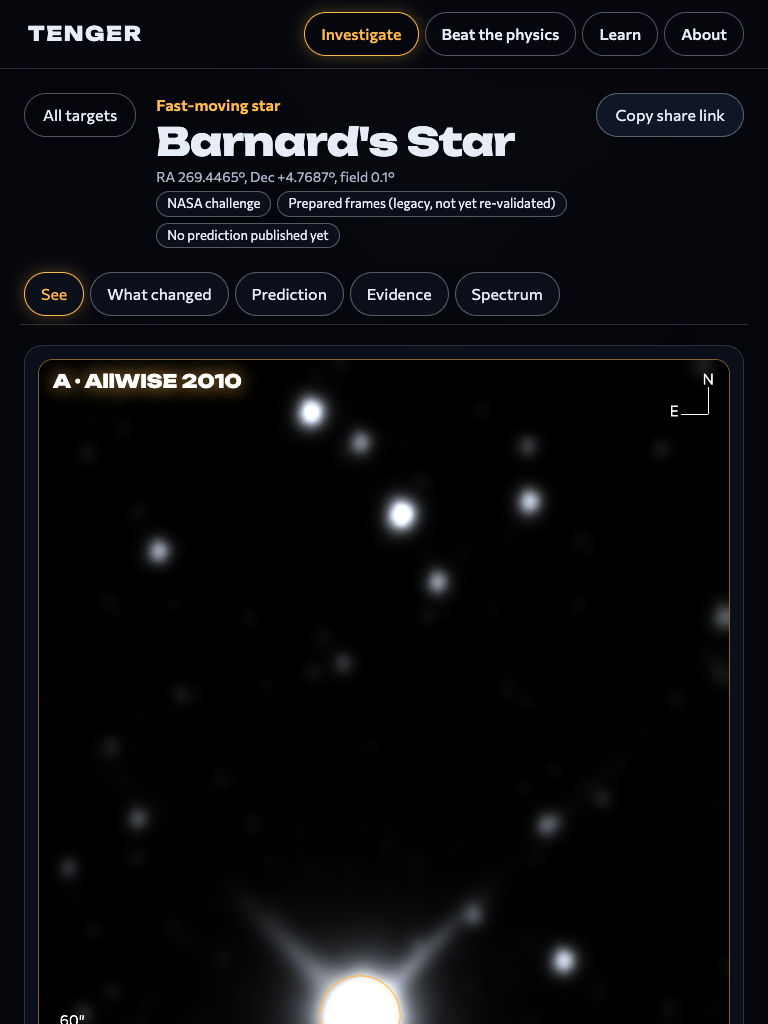
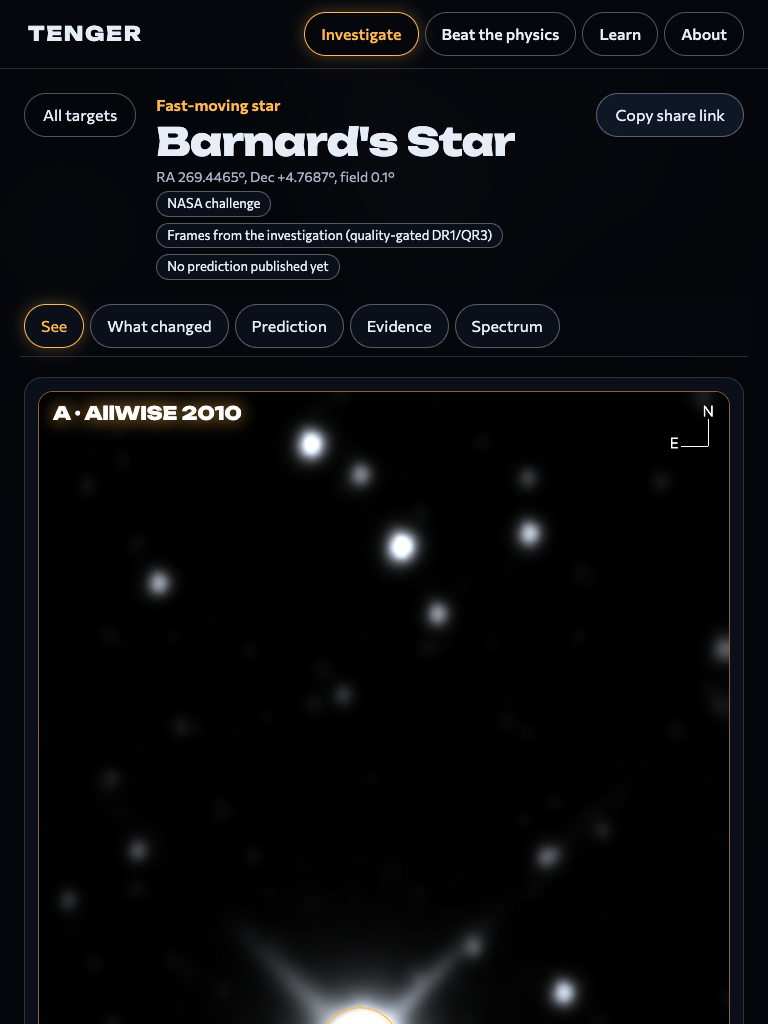
fix(web): real Barnard data, paths with spaces, new data-key text
- tests: fileURLToPath instead of URL.pathname, so the suite runs from a
  checkout path with spaces (Session A's folder).
- i18n: re-copy static/data/strings.en.json (71 keys).
- Real index and Barnard investigation: frames labelled as rebuilt from the
  investigation (legacy: null), unvalidated challenge targets stay viewable
  as "legacy frames only", measurements grouped, limitations listed once.
- Screenshots regenerated.

diff --git a/static/js/i18n.js b/static/js/i18n.js
@@ -69,6 +69,9 @@ const TEXT = {
     'data.unavailableLong': 'Prepared images and checks for this target are not published yet.',
     'data.unavailableBecause': 'Not available yet: {reason}.',
     'data.legacy': 'Prepared frames (legacy, not yet re-validated)',
+    'data.rebuilt': 'Frames from the investigation (quality-gated DR1/QR3)',
+    'data.live': 'Frames from the live archive service',
+    'data.legacyOnly': 'Legacy frames only; no validated product yet',
     kindfaststar: 'Fast-moving star',
     kindstar: 'Star',
     kindbrowndwarf: 'Brown dwarf',
@@ -282,6 +285,7 @@ const TEXT = {
     'statusNote.difference': 'B minus A, from the same grid. Amber: brighter in B. Blue: fainter in B.',
     'statusNote.context': 'Cross-mission context, not a like-for-like brightness comparison.',
     'statusNote.legacy': 'Prepared frames from the earlier SPHEREx Blink build (legacy, not yet re-validated).',
+    'statusNote.rebuilt': 'Frames rebuilt from the investigation’s own quality-gated exposures.',
     'release.spherex_qr2': 'SPHEREx QR2',
     'release.spherex_qr3': 'SPHEREx QR3',
     'release.spherex_dr1': 'SPHEREx DR1',
@@ -302,6 +306,8 @@ const TEXT = {
     'changed.curveTitle': 'Brightness over time, quick look',
     'changed.value': '{value} ± {sigma} {unit}',
     'changed.noValue': 'No value: {status}',
+    'changed.missingCount': 'Not measured: {count} (show why)',
+    'changed.inputs': 'Epochs {inputs}',
     measure: 'Estimate motion',
     measuring: 'Tracking the source between dates.',
     measured: 'Browser estimate',
@@ -369,6 +375,7 @@ const TEXT = {
     'evidence.waiting': 'The evidence file for this target is not published yet.',
     'evidence.legacyTitle': 'Frames in the viewer',
     'evidence.legacyLead': 'These prepared frames come from the earlier SPHEREx Blink build. They are real SPHEREx exposures but have not been re-validated (wavelength map, quality flags, variance).',
+    'evidence.rebuiltLead': 'These frames were rebuilt from the investigation’s own usable exposures (DR1/QR3 products, flagged pixels masked). The pictures are still processed: reprojected, median-combined per date and shown in false colour. Measurements use the native data, not these pictures.',
     'evidence.custom': 'Frames for a custom position come from the live archive service and are not validated.',
     'evidence.frames': 'Exposures shown',
     'evidence.framesValue': '{shown} (from {total} prepared, {available} listed in the archive when prepared)',
@@ -659,16 +666,19 @@ const TEXT = {
     'explain.see-only': 'This target is shown for looking only. It is not part of the prediction tests.',
     'explain.training-only': 'Only the training visits are opened. The newest visit stays closed until the prediction is frozen.',
     'limit.aperture-whole-pixels': 'Brightness is summed over whole pixels inside a circle.',
+    'limit.blended-binary': 'This is a close pair of stars; at SPHEREx resolution both are measured together.',
     'limit.catalogue-assisted-identification': 'The star was found using its catalogue position and motion.',
     'limit.control-not-passed': 'The field-star check did not pass, so the uncertainty may be underestimated.',
     'limit.detection-not-validated': 'No detection of this body has been validated in these pictures.',
     'limit.ephemeris-guided': 'Cutouts follow the JPL Horizons ephemeris (catalogue-assisted).',
+    'limit.few-visits-parallax': 'Only a few visits: the parallax fit is sensitive to small errors that differ from visit to visit.',
     'limit.gaussian-psf-model': 'Positions come from a simple bell-shaped star model, not the full SPHEREx PSF.',
     'limit.no-parallax-baseline': 'Straight-line fit that ignores parallax: a simple comparison, not the best model.',
     'limit.parallax-from-catalogue': 'The yearly parallax wobble uses the Gaia distance (catalogue-assisted).',
     'limit.parallax-not-modelled': 'The yearly parallax wobble is not modelled.',
     'limit.saturated-core-wing-fit': 'The star\'s centre is saturated; its position comes from the outer glow only.',
     'limit.training-visits-only': 'Only training visits are shown.',
+    'limit.visit-systematics': 'The free parallax fit disagrees with Gaia, a sign of visit-to-visit errors; uncertainties may be too small.',
     'limit.wcs-wave-approximate': 'Wavelengths come from the approximate lookup table in each file (about 1 nm).',
     'measure.annulus-too-small': 'Too few clean sky pixels around the star.',
     'measure.aperture-empty': 'No pixels inside the measuring circle.',
@@ -687,6 +697,7 @@ const TEXT = {
     'quality.target-outside-cutout': 'The target is outside this exposure\'s picture.',
     'quantity.control_fraction_within_95pct': 'Field-star check: share of comparison stars whose measured motion agrees with Gaia',
     'quantity.flux_ratio_b_over_a': 'Brightness ratio, date B over date A, same wavelength',
+    'quantity.parallax_arcsec': 'Parallax from SPHEREx positions alone (arcsec, exploratory)',
     'quantity.position_offset_arcsec': 'Position offset from the reference (arcsec)',
     'quantity.proper_motion_east_arcsec_yr': 'Proper motion towards east (arcsec per year)',
     'quantity.proper_motion_north_arcsec_yr': 'Proper motion towards north (arcsec per year)',

diff --git a/static/js/main.js b/static/js/main.js
@@ -9,6 +9,7 @@ import { parseCoordinates, separationDeg } from './coords.js';
 import { $, chip, dataTable, el, formatNumber, formatUtc, prefersReducedMotion } from './dom.js';
 import {
   bindCoordinateSearch, buildFovOptions, entryName, fillCoordinates, kindLabel, placeMapLabels, predictionLabel, renderHome, startBlinking,
+  statusLabel,
 } from './home.js';
 import { addMissingStrings, applyTranslations, has, t, tData } from './i18n.js';
 import { findByName, searchMatches } from './names.js';
@@ -27,7 +28,7 @@ import {
   channelWavelength, CHANNELS, DETECTOR_RANGES, detectorOfChannel, mjdToDate, mjdToYear, pixelToSky, positionAt,
   selectBand, skyToPixel, visitsOf, wellCovered,
 } from './stack.js';
-import { buildTargets, canonicalKey, findCoveringTarget, isViewable, legacyPlaces } from './targets.js';
+import { buildTargets, canonicalKey, findCoveringTarget, isLegacyOnly, isViewable, legacyPlaces } from './targets.js';
 import { canvasToPlate, fullView, panBy, zoomAt } from './viewport.js';
 
 const POLL_MS = 1500;
@@ -444,10 +445,21 @@ function idsBlock(picture) {
   ]);
 }
 
+/**
+ * Where the viewer's frames come from: 'rebuilt' when the evidence file says the bundle was rebuilt from its
+ * own exposures (legacy: null, DATA-CONTRACT V3.1/V3.5), 'legacy' for older prepared frames, 'live' otherwise.
+ */
+function framesKind() {
+  if (!state.target?.key) return 'live';
+  const doc = app.investigation?.state === 'ok' ? app.investigation.doc : null;
+  return doc && doc.legacy === null && state.staticMeta?.dataset_version ? 'rebuilt' : 'legacy';
+}
+
 function statusNote(picture) {
   if (picture.status === 'context') return t('statusNote.context');
   if (picture.status === 'difference') return t('statusNote.difference');
-  return `${t(`statusNote.${picture.combine}`)} ${state.target?.key ? t('statusNote.legacy') : ''}`.trim();
+  const kind = framesKind();
+  return `${t(`statusNote.${picture.combine}`)} ${kind === 'live' ? '' : t(`statusNote.${kind}`)}`.trim();
 }
 
 function captionColumn(letter, picture, side) {
@@ -1017,7 +1029,8 @@ function describeTarget(target, fov) {
   const chips = [];
   if (entry) {
     chips.push(chip(t(`role.${entry.role}`)));
-    chips.push(chip(isViewable(entry) ? t('data.legacy') : t(`data.${entry.dataStatus}`)));
+    chips.push(chip(isViewable(entry) ? t(`data.${framesKind()}`) : statusLabel(entry)));
+    if (isLegacyOnly(entry)) chips.push(chip(t('data.legacyOnly')));
     chips.push(chip(predictionLabel(entry)));
   } else {
     chips.push(chip(t('kindcustom')));
@@ -1336,9 +1349,12 @@ async function refreshPanels() {
   const custom = !entry;
   await ensureInvestigation();
   renderChanged($('changed-validated'), { investigation: app.investigation, custom });
+  if (entry && state.target) describeTarget(state.target, Number($('fov').value) || state.target.fov || DEFAULT_FOV);
+  captionKey = '';
+  render();
   renderEvidence($('evidence-body'), {
     investigation: app.investigation,
-    legacy: { frames: state.frames, meta: state.staticMeta, custom },
+    legacy: { frames: state.frames, meta: state.staticMeta, custom, kind: framesKind() },
     epochs: app.investigation?.state === 'ok' ? epochCoverage(app.investigation.doc, state.visits.map((visit) => visit.visit)) : null,
   });
   renderSpectrumNote($('spectrum-note'), { investigation: app.investigation });
@@ -1844,7 +1860,7 @@ function thumbsOf(entry) {
       kind: 'index',
       frames: listed.slice(0, 2).map((thumb) => ({
         src: thumb.src,
-        label: thumb.time_utc ? String(thumb.time_utc).slice(0, 10) : tData(thumb.label_key, 'explain.unknown'),
+        label: thumb.time_utc ? String(thumb.time_utc).slice(0, 10) : '',
       })),
     };
   }

diff --git a/static/js/panels.js b/static/js/panels.js
@@ -53,18 +53,36 @@ export function renderChanged(host, { investigation, custom }) {
     return;
   }
   const doc = investigation.doc;
-  const items = (doc.measurements ?? []).map((measurement) => el('li', { class: 'measurement' }, [
+  const measurements = doc.measurements ?? [];
+  const valued = measurements.filter((measurement) => measurement.value !== null && measurement.value !== undefined);
+  const missing = measurements.filter((measurement) => !valued.includes(measurement));
+  const missingList = missing.length ? el('details', { class: 'missing-measurements' }, [
+    el('summary', { text: t('changed.missingCount', { count: String(missing.length) }) }),
+    el('ul', { class: 'measurements' }, missing.map(measurementItem)),
+  ]) : null;
+  const limitations = [...new Set([...(doc.limitation_keys ?? []), ...measurements.flatMap((item) => item.limitation_keys ?? [])])];
+  host.replaceChildren(...[
+    exampleStamp(doc),
+    ...(doc.explanation ?? []).map((item) => el('p', { text: explanationText(item) })),
+    valued.length ? el('ul', { class: 'measurements' }, valued.map(measurementItem)) : note(t('changed.waiting')),
+    missingList,
+    limitations.length ? el('div', {}, [
+      el('h4', { text: t('pred.limitations') }),
+      el('ul', {}, limitations.map((key) => el('li', { text: tData(key, 'limit.unknown') }))),
+    ]) : null,
+  ].filter(Boolean));
+}
+
+function measurementItem(measurement) {
+  const inputs = Array.isArray(measurement.inputs) && measurement.inputs.length <= 2 ? measurement.inputs.join(' → ') : null;
+  return el('li', { class: 'measurement' }, [
     el('strong', { text: quantityLabel(measurement.quantity) }),
     el('span', { class: 'measurement-value', text: measurementValue(measurement) }),
     chip(t(`content.${measurement.content_type}`), `chip-${measurement.content_type}`),
-    chip(t(`mstatus.${measurement.status}`)),
-    ...(measurement.limitation_keys ?? []).map((key) => el('small', { text: tData(key, 'limit.unknown') })),
-  ]));
-  host.replaceChildren(
-    ...[exampleStamp(doc)].filter(Boolean),
-    items.length ? el('ul', { class: 'measurements' }, items) : note(t('changed.waiting')),
-    ...(doc.explanation ?? []).map((item) => el('p', { text: explanationText(item) })),
-  );
+    measurement.status !== 'measured' ? chip(t(`mstatus.${measurement.status}`)) : null,
+    inputs ? el('small', { text: t('changed.inputs', { inputs }) }) : null,
+    measurement.status_reason_key ? el('small', { text: tData(measurement.status_reason_key, 'explain.unknown') }) : null,
+  ]);
 }
 
 // ---------- Prediction ----------
@@ -344,7 +362,7 @@ function legacyEvidence(legacy) {
   })).join(', ');
   return [
     el('h3', { text: t('evidence.legacyTitle') }),
-    note(custom ? t('evidence.custom') : t('evidence.legacyLead')),
+    note(custom ? t('evidence.custom') : t(legacy.kind === 'rebuilt' ? 'evidence.rebuiltLead' : 'evidence.legacyLead')),
     factList([
       [t('evidence.frames'), t('evidence.framesValue', {
         shown: String(frames.length), total: String(meta?.total ?? '—'), available: String(meta?.available ?? '—'),

diff --git a/static/js/home.js b/static/js/home.js
@@ -4,7 +4,7 @@ import { parseDec, parseRa } from './coords.js';
 import { $, el, prefersReducedMotion } from './dom.js';
 import { has, t, tData } from './i18n.js';
 import { AU_PER_UNIT, RINGS, mapRadius, placeOnMap } from './map.js';
-import { isViewable } from './targets.js';
+import { isLegacyOnly, isViewable } from './targets.js';
 
 const BLINK_MS = 900;
 const LABEL_SIDES = ['label-right', 'label-left', 'label-below', 'label-above'];
@@ -32,7 +32,7 @@ export function predictionLabel(entry) {
   return entry.prediction.status ? t(`trial.${entry.prediction.status}`) : t('trial.none');
 }
 
-const statusLabel = (entry) => t(`data.${entry.dataStatus}`);
+export const statusLabel = (entry) => (isLegacyOnly(entry) ? t('data.legacyOnly') : t(`data.${entry.dataStatus}`));
 const hookOf = (entry) => (has(`hook_${entry.key}`) ? t(`hook_${entry.key}`) : null);
 export const kindLabel = (kind) => t(has(`kind${kind}`) ? `kind${kind}` : 'kindother');
 
@@ -88,8 +88,10 @@ function plannedCard(entry) {
     el('span', { class: 'card-words' }, [
       el('strong', { text: entryName(entry) }),
       el('small', { text: hookOf(entry) }),
-      el('small', { class: 'card-status', text: entry.seeOnly ? `${statusLabel(entry)} · ${t('trial.see_only')}` : statusLabel(entry) }),
-      entry.statusReasonKey ? el('small', { class: 'card-status', text: tData(entry.statusReasonKey, 'explain.unknown') }) : null,
+      el('small', { class: 'card-status', text: [
+        entry.statusReasonKey ? t('data.unavailableBecause', { reason: tData(entry.statusReasonKey, 'explain.unknown') }) : statusLabel(entry),
+        entry.seeOnly ? t('trial.see_only') : null,
+      ].filter(Boolean).join(' · ') }),
     ]),
   ]);
 }

diff --git a/static/js/targets.js b/static/js/targets.js
@@ -141,8 +141,15 @@ export function buildTargets(index, legacyPresets = []) {
   return entries;
 }
 
-/** Whether the viewer has prepared frames to show for this entry. */
-export const isViewable = (entry) => Boolean(entry?.legacy) && entry.dataStatus !== 'unavailable';
+/**
+ * Whether the viewer has bundled frames to show. The five challenge targets stay viewable even when the
+ * index has no validated product for them yet (CLAUDE.md: keep the five-target viewer); the labels then
+ * say "legacy frames only".
+ */
+export const isViewable = (entry) => Boolean(entry?.legacy);
+
+/** Bundled frames exist, but the index lists no validated product for the target. */
+export const isLegacyOnly = (entry) => isViewable(entry) && entry.fromIndex && entry.dataStatus === 'unavailable';
 
 /** The prepared field that contains a position, nearest centre first. */
 export function findCoveringTarget(entries, ra, dec) {

diff --git a/static/css/style.css b/static/css/style.css
@@ -764,6 +764,7 @@ body.negative #plate, body.negative #plate-b, body.negative .arrays canvas, body
 .chart .area { stroke: none; fill: var(--accent); opacity: 0.16; }
 #panel-spectrum .chart { max-width: 760px; }
 
+.missing-measurements summary { min-height: var(--tap); display: flex; align-items: center; cursor: pointer; color: var(--solar); font-weight: 600; }
 .data-table summary { min-height: var(--tap); display: flex; align-items: center; cursor: pointer; color: var(--solar); font-weight: 600; }
 .table-scroll { overflow-x: auto; max-height: 420px; overflow-y: auto; }
 .data-table table { width: 100%; border-collapse: collapse; font-size: 14px; }

diff --git a/docs/IMPLEMENTATION_STATUS.md b/docs/IMPLEMENTATION_STATUS.md
@@ -310,3 +310,33 @@ scoreboard page from `scoreboard.json`, the Beat the physics round player, and p
 
 **Next action (proposed)**: when Session A publishes the real rounds, play each one at 360 and 1280 px and
 re-capture `docs/screens/`; then the scoreboard page and printable lessons (phase G/H).
+
+### B2 follow-up, 14 Nov 2026 (after Session A's `1c6715a`: first real investigation, index, reserved, strings)
+
+Requested by Session A:
+
+- **Paths with spaces**: `tests/contract.test.mjs` and `tests/i18n.test.mjs` built folder paths from
+  `URL.pathname`, which keeps `%20` and failed with ENOENT in `/Users/…/Hackathon Astrolemma`. Both now use
+  `fileURLToPath`. Checked by copying `static/` and `tests/` into a scratch folder whose path has a space:
+  105/105 pass there.
+- **New data keys** (`limit.blended-binary`, `limit.few-visits-parallax`, `limit.visit-systematics`,
+  `quantity.parallax_arcsec`): the copied block in `js/i18n.js` is regenerated from `strings.en.json`
+  (71 keys). The test keeps failing on any key Session A adds later until it is copied; at run time the page
+  fills such keys from the file, so users never see a raw key.
+
+Real data now on the site (`data/index.json`, `data/barnard/investigation.json`, rebuilt Barnard bundle):
+
+- Home: the map draws 7 targets at Session A's cited distances (Gaia DR3 / SIMBAD parallaxes, JPL Horizons);
+  3I/ATLAS has no distance and is listed as unplaced. Prediction statuses read "No prediction published yet".
+- Barnard: chip "Frames from the investigation (quality-gated DR1/QR3)" because the evidence file has
+  `legacy: null` and the bundle carries `dataset_version` (V3.1/V3.5); A/B dates are the file's
+  `viewer.visits` (2025-08-29, 2026-03-20, 2026-08-22). What changed shows Session A's explanations, the
+  SPHEREx proper motion next to the Gaia catalogue value (content chips "Measured" / "Catalogue"), the values
+  that could not be measured folded away with their reasons, and the limitations once. Evidence covers all
+  18 epochs. No comparison allows a difference image, so Difference stays off with its reason.
+- WISE 0855, ε Indi B, RW Aur, R Dra: the index says `unavailable` (`unavailable.no-validated-product`).
+  Their bundled frames stay viewable so the five-target viewer is kept (CLAUDE.md), labelled
+  "Legacy frames only; no validated product yet" and "Prepared frames (legacy, not yet re-validated)". If
+  the team prefers to hide them until validated, it is one line in `isViewable` (`js/targets.js`).
+- `node --test tests/*.mjs`: **105 passed** (adds a test that all five challenge targets stay viewable with the
+  real index while unvalidated ones are marked legacy-only). Screenshots regenerated (see below).
